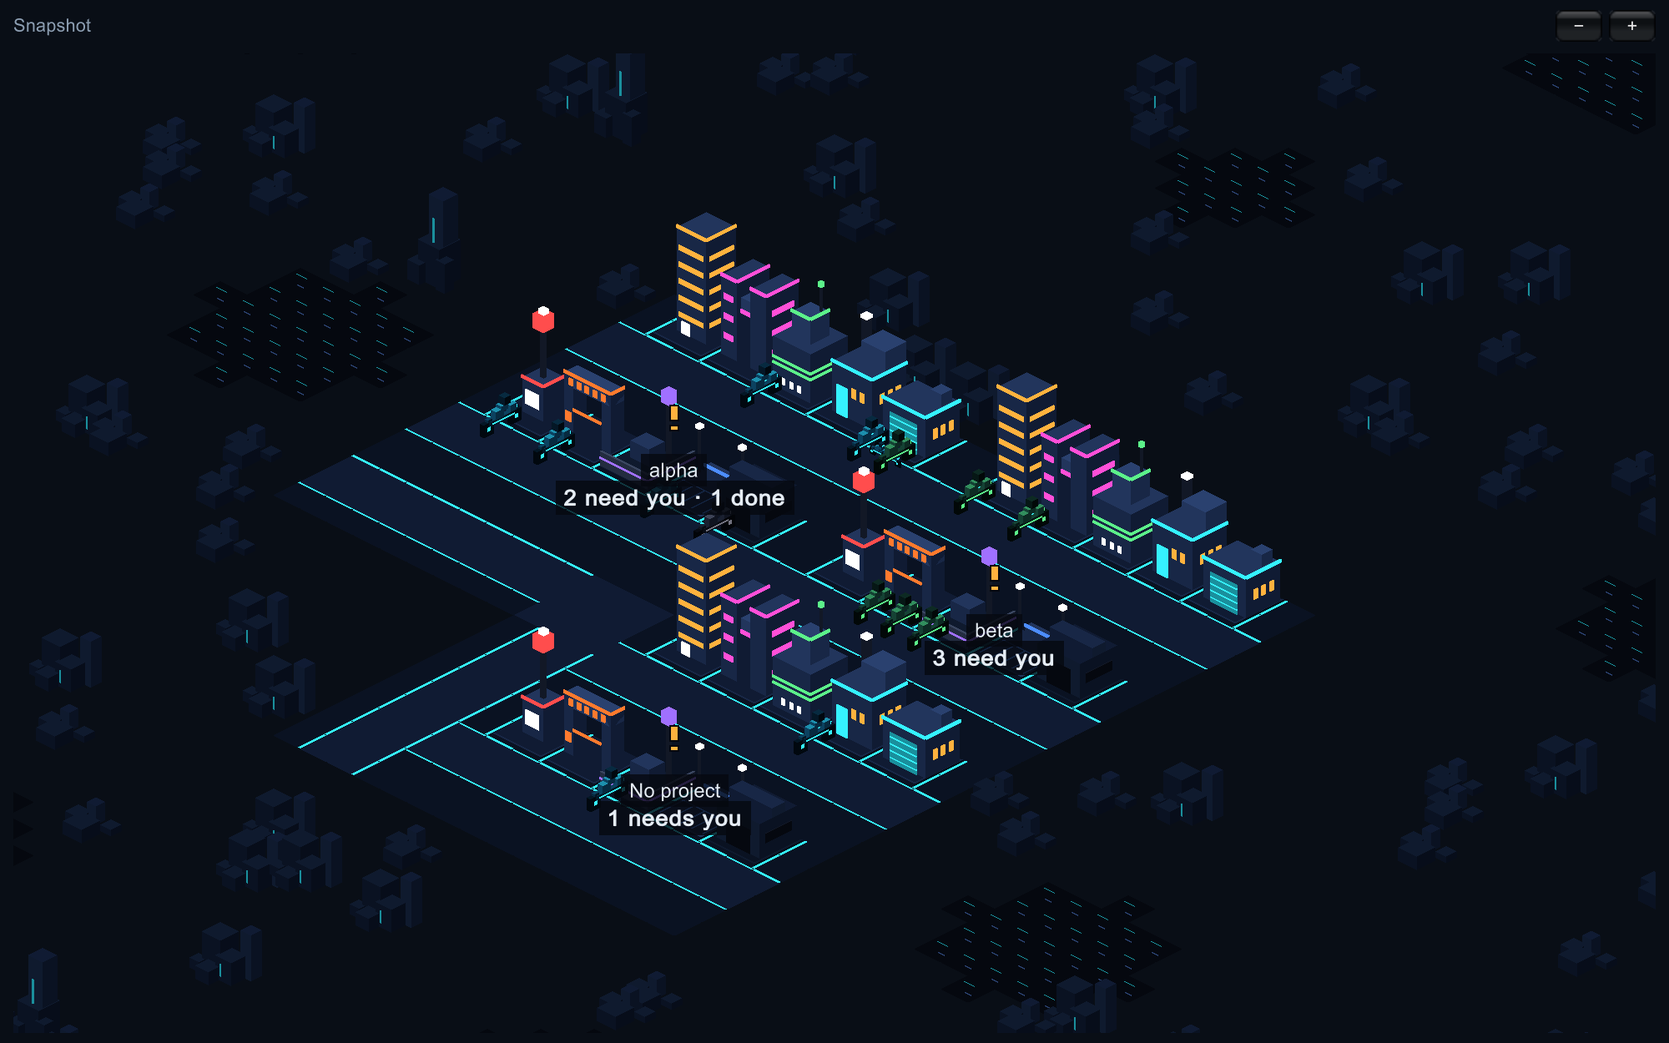
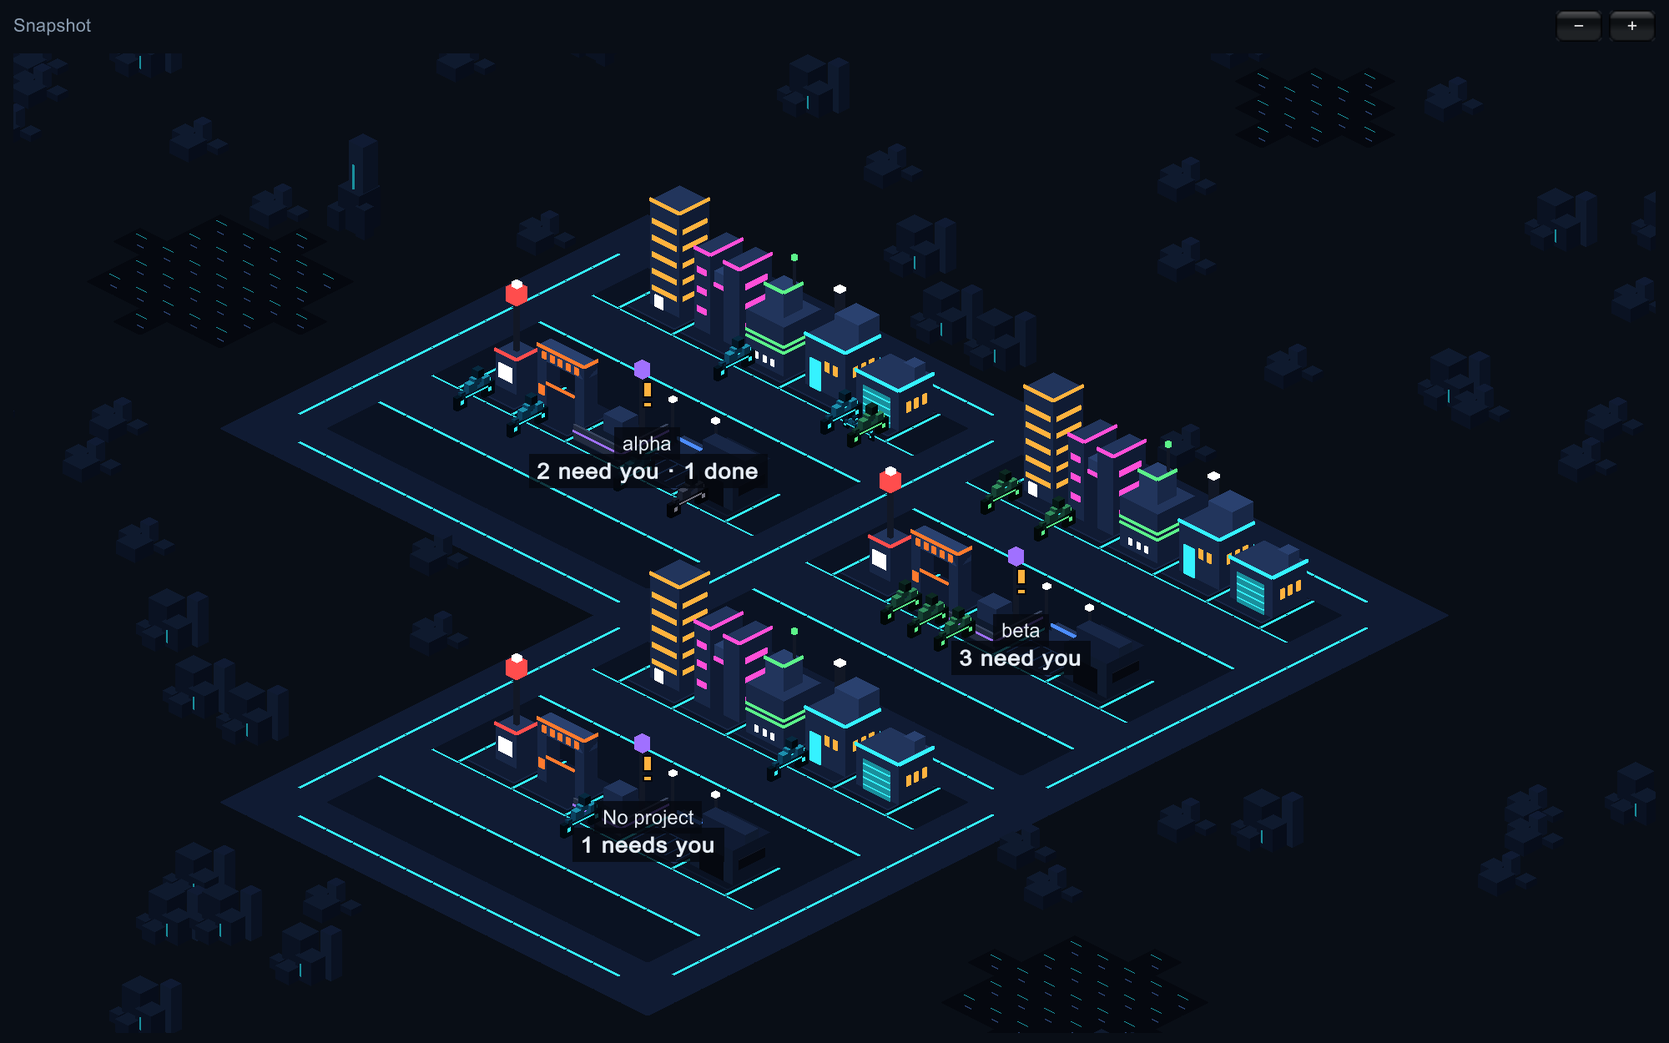
GRID-15: paths between cities, on every side
A path now runs round every plot: plots stand one path apart instead of
edge to edge, so two neighbours have a way between them, every city has
one on all four sides, and the paths of the whole map join at the corners.
A path has one line of light down its middle, where a city's own streets
have a lit kerb on each side.

This replaces the thoroughfares of GRID-13, whose rule (company on two
sides) now holds by construction: Iso.Thoroughfares and the road drawing
in the outlands are removed.

diff --git a/Assets/TheGrid/WorldView.cs b/Assets/TheGrid/WorldView.cs
@@ -261,9 +261,10 @@ namespace TheGrid
         void Paint(WorldCity city)
         {
             var o = Iso.PlotOrigin(city.cell);
-            for (int col = 0; col < Iso.PlotTiles; col++)
-                for (int row = 0; row < Iso.PlotTiles; row++)
-                    ground.SetTile(At(o.x + col, o.y + row), Ground(col, row));
+            // The plot, and the path round it. A neighbour paints the stretch between the two again, the same way.
+            for (int col = -Iso.PathTiles; col < Iso.PlotTiles + Iso.PathTiles; col++)
+                for (int row = -Iso.PathTiles; row < Iso.PlotTiles + Iso.PathTiles; row++)
+                    ground.SetTile(At(o.x + col, o.y + row), Iso.OnPath(city.cell, o.x + col, o.y + row) ? Path(col, row) : Ground(col, row));
             foreach (Building b in Enum.GetValues(typeof(Building)))
                 NewSprite(BuildingNames[(int)b], buildingSprites[(int)b], root).transform.localPosition = Iso.BuildingSpot(city.cell, b);
         }
@@ -272,32 +273,13 @@ namespace TheGrid
         static Vector3Int At(int col, int row) => new Vector3Int(-row, -col, 0);
 
         // The outlands: the land does not stop at the last plot. Every empty cell near a plot gets stones, outcrops, now and then a
-        // spire or a lake, so the view runs on to its edges the way a tycoon map runs on into trees and shoreline. Through it run
-        // the thoroughfares that keep every city in company on two sides. It is scenery: it says nothing about any agent, and it
-        // never moves. It follows only from where the plots are, so it is laid out afresh whenever a plot is added.
+        // spire or a lake, so the view runs on to its edges the way a tycoon map runs on into trees and shoreline. It is scenery:
+        // it says nothing about any agent, and it never moves. It keeps to the inside of its cell, clear of the paths.
         void LayOutlands(List<Vector2Int> cells)
         {
             if (cells.Count == outlandsFor || cells.Count == 0) return;
             outlandsFor = cells.Count;
             var taken = new HashSet<Vector2Int>(cells);
-            foreach (var kv in outlands)
-            {
-                Kill(kv.Value);
-                if (taken.Contains(kv.Key)) continue;   // a new repo was given this cell: its plot is already painted there
-                var o = Iso.PlotOrigin(kv.Key);
-                for (int col = 0; col < Iso.PlotTiles; col++)
-                    for (int row = 0; row < Iso.PlotTiles; row++)
-                        ground.SetTile(At(o.x + col, o.y + row), null);
-            }
-            outlands.Clear();
-
-            var roads = new Dictionary<Vector2Int, List<Vector2Int>>();
-            foreach (var road in Iso.Thoroughfares(cells))
-            {
-                if (!roads.TryGetValue(road.cell, out var through)) roads[road.cell] = through = new List<Vector2Int>();
-                through.Add(road.toCity);
-            }
-
             int x0 = int.MaxValue, x1 = int.MinValue, y0 = int.MaxValue, y1 = int.MinValue;
             foreach (var c in cells)
             {
@@ -307,23 +289,27 @@ namespace TheGrid
                 for (int y = y0 - OutlandRing; y <= y1 + OutlandRing; y++)
                 {
                     var cell = new Vector2Int(x, y);
-                    if (taken.Contains(cell)) continue;
-                    roads.TryGetValue(cell, out var through);
-                    outlands[cell] = Scenery(cell, through);
+                    if (!taken.Contains(cell))
+                    {
+                        if (!outlands.ContainsKey(cell)) outlands[cell] = Scenery(cell);
+                    }
+                    else if (outlands.TryGetValue(cell, out var old))
+                    {
+                        // A new repo was given this cell: its plot has already been painted over the ground, so only the stones go.
+                        Kill(old);
+                        outlands.Remove(cell);
+                    }
                 }
         }
 
-        GameObject Scenery(Vector2Int cell, List<Vector2Int> roadsToward)
+        GameObject Scenery(Vector2Int cell)
         {
             var holder = new GameObject("Outlands " + cell.x + " " + cell.y).transform;
             holder.SetParent(root, false);
             var o = Iso.PlotOrigin(cell);
             var rng = new System.Random(cell.x * 73856093 ^ cell.y * 19349663);   // the same land every time the app opens
 
-            var used = new HashSet<Vector2Int>();   // tiles under a road or a lake: nothing else goes there
-            if (roadsToward != null)
-                foreach (var toCity in roadsToward) Road(o, toCity, used);
-
+            var water = new HashSet<Vector2Int>();
             if (rng.Next(3) == 0)
             {
                 int cx = rng.Next(2, 10), cy = rng.Next(2, 10);
@@ -332,7 +318,8 @@ namespace TheGrid
                     for (int row = 0; row < Iso.PlotTiles; row++)
                     {
                         float dx = (col - cx) / rx, dy = (row - cy) / ry;
-                        if (dx * dx + dy * dy > 1f || !used.Add(new Vector2Int(col, row))) continue;
+                        if (dx * dx + dy * dy > 1f) continue;
+                        water.Add(new Vector2Int(col, row));
                         ground.SetTile(At(o.x + col, o.y + row), waterTile);
                     }
             }
@@ -342,30 +329,26 @@ namespace TheGrid
                 int kind = rng.Next(10);
                 // A spire hides what stands behind it, so it keeps to the middle of its cell, clear of any plot next door.
                 int col = kind < 9 ? rng.Next(0, 11) : rng.Next(3, 8), row = kind < 9 ? rng.Next(0, 11) : rng.Next(3, 8);
-                bool free = true;
+                bool wet = false;
                 for (int c = col; c <= col + 1; c++)
                     for (int r = row; r <= row + 1; r++)
-                        free &= !used.Contains(new Vector2Int(c, r));
-                if (!free) continue;
+                        wet |= water.Contains(new Vector2Int(c, r));
+                if (wet) continue;
                 var at = (Iso.TileCentre(o.x + col, o.y + row) + Iso.TileCentre(o.x + col + 1, o.y + row + 1)) / 2;
                 NewSprite("stone", outlandSprites[kind < 5 ? 0 : kind < 9 ? 1 : 2], holder).transform.localPosition = at;
             }
             return holder.gameObject;
         }
 
-        // A thoroughfare: a road down the side of an empty cell that faces a city, the length of that side. Three tiles across:
-        // a lit kerb on each edge of the roadway and a strip of verge. Where two roads meet, the crossing is open road.
-        void Road(Vector2Int o, Vector2Int toCity, HashSet<Vector2Int> used)
+        // The path round a plot: a roadway two tiles across with one line of light down its middle, which is what tells a path from
+        // a city's own streets with their two lit kerbs. Where paths meet at a corner the crossing is open road.
+        Tile Path(int col, int row)
         {
-            bool alongColumns = toCity.x == 0;   // the city is up-right or down-left of here, so the road runs the way columns run
-            var lanes = alongColumns ? new[] { roadKerbTile, roadTile, kerbTile } : new[] { alleyTile, roadTile, roadAlleyTile };
-            int first = toCity.x + toCity.y < 0 ? 0 : Iso.PlotTiles - lanes.Length;   // against the edge the city is on
-            for (int i = 0; i < Iso.PlotTiles; i++)
-                for (int lane = 0; lane < lanes.Length; lane++)
-                {
-                    var t = alongColumns ? new Vector2Int(i, first + lane) : new Vector2Int(first + lane, i);
-                    ground.SetTile(At(o.x + t.x, o.y + t.y), used.Add(t) ? lanes[lane] : roadTile);
-                }
+            bool alongColumns = row < 0 || row >= Iso.PlotTiles, alongRows = col < 0 || col >= Iso.PlotTiles;
+            if (alongColumns && alongRows) return roadTile;
+            // The line is the strip on the edge the two tiles share: the nearer tile's far edge one way, the farther tile's the other.
+            if (alongColumns) return (row + Iso.PathTiles) % Iso.Pitch == 1 ? roadKerbTile : roadTile;
+            return (col + Iso.PathTiles) % Iso.Pitch == 0 ? roadAlleyTile : roadTile;
         }
 
         // Light follows the buildings, not the tiles: a strip along each kerb of the two streets, which run past the buildings' fronts,

diff --git a/Assets/TheGrid/Tests/IsoTests.cs b/Assets/TheGrid/Tests/IsoTests.cs
@@ -39,10 +39,11 @@ namespace TheGrid.Core.Tests
         {
             var cells = new[] { new Vector2Int(0, 0), new Vector2Int(1, 0), new Vector2Int(0, 1), new Vector2Int(-1, -1) };
             var origins = cells.Select(Iso.PlotOrigin).ToList();
+            Assert.AreEqual(14, Iso.Pitch);   // a plot and the path beside it
             Assert.AreEqual(new Vector2Int(0, 0), origins[0]);
-            Assert.AreEqual(new Vector2Int(12, 0), origins[1]);
-            Assert.AreEqual(new Vector2Int(0, 12), origins[2]);
-            Assert.AreEqual(new Vector2Int(-12, -12), origins[3]);
+            Assert.AreEqual(new Vector2Int(14, 0), origins[1]);
+            Assert.AreEqual(new Vector2Int(0, 14), origins[2]);
+            Assert.AreEqual(new Vector2Int(-14, -14), origins[3]);
         }
 
         [Test]
@@ -57,70 +58,63 @@ namespace TheGrid.Core.Tests
             Assert.AreNotEqual(Iso.RiderSpot(new Vector2Int(0, 0), Building.Garage, 0), Iso.RiderSpot(cell, Building.Garage, 0));
         }
 
-        static readonly Vector2Int LowerLeft = new Vector2Int(0, 1), LowerRight = new Vector2Int(1, 0), UpperLeft = new Vector2Int(-1, 0), UpperRight = new Vector2Int(0, -1);
-
-        [Test]
-        public void ThreeCitiesInAnLShareOneNotch()
+        static IEnumerable<Vector2Int> PlotTiles(Vector2Int cell)
         {
-            // The owner's example: alpha, beta beside it, and a third below beta. The first and the third each touch only beta,
-            // and the empty cell between them is where both get their road.
-            Vector2Int alpha = new Vector2Int(0, 0), beta = new Vector2Int(1, 0), third = new Vector2Int(1, 1), notch = new Vector2Int(0, 1);
-            var roads = Iso.Thoroughfares(new[] { alpha, beta, third });
-            Assert.AreEqual(2, roads.Count);
-            CollectionAssert.Contains(roads, (notch, alpha - notch));   // along alpha's lower-left side
-            CollectionAssert.Contains(roads, (notch, third - notch));   // along the third city's upper-left side: its left
-            Assert.AreEqual(UpperLeft, notch - third);
+            var o = Iso.PlotOrigin(cell);
+            for (int c = 0; c < Iso.PlotTiles; c++) for (int r = 0; r < Iso.PlotTiles; r++) yield return new Vector2Int(o.x + c, o.y + r);
         }
 
         [Test]
-        public void ACityOnItsOwnGetsRoadsOnItsTwoFrontSides()
+        public void APathRunsAlongAllFourSidesOfACityAndRoundItsCorners()
         {
-            var city = new Vector2Int(3, -2);
-            var roads = Iso.Thoroughfares(new[] { city });
-            Assert.AreEqual(2, roads.Count);
-            CollectionAssert.Contains(roads, (city + LowerLeft, -LowerLeft));
-            CollectionAssert.Contains(roads, (city + LowerRight, -LowerRight));
+            var cell = new Vector2Int(2, -1);
+            var o = Iso.PlotOrigin(cell);
+            int far = Iso.PlotTiles + Iso.PathTiles - 1;   // the last path tile beyond the plot
+            foreach (var t in new[] { new Vector2Int(5, -1), new Vector2Int(5, Iso.PlotTiles), new Vector2Int(-1, 5), new Vector2Int(Iso.PlotTiles, 5),      // beside each side
+                                      new Vector2Int(-Iso.PathTiles, -Iso.PathTiles), new Vector2Int(far, far), new Vector2Int(-Iso.PathTiles, far) })                  // corners
+                Assert.IsTrue(Iso.OnPath(cell, o.x + t.x, o.y + t.y), t + " should be path");
+            foreach (var t in new[] { new Vector2Int(0, 0), new Vector2Int(11, 11), new Vector2Int(5, 5), new Vector2Int(-Iso.PathTiles - 1, 5), new Vector2Int(5, far + 1) })
+                Assert.IsFalse(Iso.OnPath(cell, o.x + t.x, o.y + t.y), t + " should not be path");
+            // the path is as wide as PathTiles all the way round: a 16 by 16 square less the 12 by 12 plot
+            int count = 0;
+            for (int c = -5; c < 20; c++) for (int r = -5; r < 20; r++) if (Iso.OnPath(cell, o.x + c, o.y + r)) count++;
+            Assert.AreEqual(16 * 16 - 12 * 12, count);
         }
 
         [Test]
-        public void CitiesWithTwoNeighboursNeedNoRoads()
+        public void NeighbouringCitiesShareThePathBetweenThemAndNoPathRunsThroughAPlot()
         {
-            Assert.AreEqual(0, Iso.Thoroughfares(new[] { new Vector2Int(0, 0), new Vector2Int(1, 0), new Vector2Int(1, 1), new Vector2Int(0, 1) }).Count);
-            Assert.AreEqual(0, Iso.Thoroughfares(new Vector2Int[0]).Count);
-        }
+            Vector2Int a = new Vector2Int(0, 0), right = new Vector2Int(1, 0), below = new Vector2Int(0, 1);
+            for (int i = 0; i < Iso.PlotTiles; i++)
+                for (int lane = 0; lane < Iso.PathTiles; lane++)
+                {
+                    Assert.IsTrue(Iso.OnPath(a, Iso.PlotTiles + lane, i) && Iso.OnPath(right, Iso.PlotTiles + lane, i), "between a city and the one beside it");
+                    Assert.IsTrue(Iso.OnPath(a, i, Iso.PlotTiles + lane) && Iso.OnPath(below, i, Iso.PlotTiles + lane), "between a city and the one below it");
+                }
 
-        [Test]
-        public void HoweverManyCitiesEachHasCompanyOnTwoSidesAndNoRoadRunsThroughACity()
-        {
-            for (int n = 1; n <= 40; n++)
+            var cells = Enumerable.Range(0, 40).Select(Plots.Cell).ToList();
+            var plots = new HashSet<Vector2Int>(cells.SelectMany(PlotTiles));
+            Assert.AreEqual(40 * Iso.PlotTiles * Iso.PlotTiles, plots.Count, "plots share no tile");
+            foreach (var cell in cells)
             {
-                var cities = Enumerable.Range(0, n).Select(Plots.Cell).ToList();
-                var roads = Iso.Thoroughfares(cities);
-                CollectionAssert.AreEqual(roads, Iso.Thoroughfares(cities), "the same cities give the same roads");
-                foreach (var r in roads)
-                {
-                    CollectionAssert.DoesNotContain(cities, r.cell, n + " cities: a road runs through a city");
-                    CollectionAssert.Contains(cities, r.cell + r.toCity, n + " cities: a road serves no city");
-                }
-                foreach (var city in cities)
-                {
-                    int company = Iso.Sides.Count(side => cities.Contains(city + side) || roads.Contains((city + side, -side)));
-                    Assert.GreaterOrEqual(company, 2, n + " cities: " + city + " is stranded");
-                    Assert.AreEqual(Math.Max(0, 2 - Iso.Sides.Count(side => cities.Contains(city + side))), roads.Count(r => r.cell + r.toCity == city), n + " cities: " + city + " has roads it does not need");
-                }
+                var o = Iso.PlotOrigin(cell);
+                for (int c = -Iso.PathTiles; c < Iso.PlotTiles + Iso.PathTiles; c++)
+                    for (int r = -Iso.PathTiles; r < Iso.PlotTiles + Iso.PathTiles; r++)
+                        Assert.AreEqual(!plots.Contains(new Vector2Int(o.x + c, o.y + r)), Iso.OnPath(cell, o.x + c, o.y + r), cell + ": tile " + c + ", " + r);
             }
         }
 
         [Test]
         public void BoundsCoverThePlots()
         {
+            // a plot and the path round it: 16 tiles each way
             var one = Iso.Bounds(new[] { new Vector2Int(0, 0) });
-            Assert.AreEqual(768f, one.width, .01f);
-            Assert.AreEqual(384f, one.height, .01f);
+            Assert.AreEqual(1024f, one.width, .01f);
+            Assert.AreEqual(512f, one.height, .01f);
             Assert.AreEqual(0f, one.center.x, .01f);                      // plot 0 is centred under its north corner
             var two = Iso.Bounds(new[] { new Vector2Int(0, 0), new Vector2Int(1, 0) });
-            Assert.AreEqual(768f + 384f, two.width, .01f);                // the neighbour sits half a plot across and half a plot down
-            Assert.AreEqual(384f + 192f, two.height, .01f);
+            Assert.AreEqual(1024f + 448f, two.width, .01f);               // the neighbour sits one pitch along: half its width across, a quarter down
+            Assert.AreEqual(512f + 224f, two.height, .01f);
             Assert.AreEqual(0f, Iso.Bounds(new Vector2Int[0]).width);
         }
 

diff --git a/Assets/TheGrid/Core/Iso.cs b/Assets/TheGrid/Core/Iso.cs
@@ -9,6 +9,9 @@ namespace TheGrid.Core
     {
         public const int TileW = 64, TileH = 32, PlotTiles = 12, RidersPerRow = 2;
 
+        // A path runs round every plot, so between two neighbouring plots there is one, and the paths of the whole map join up.
+        public const int PathTiles = 2, Pitch = PlotTiles + PathTiles;
+
         // Screen pixels per art pixel. Each level doubles the last, so pixels stay whole.
         public static readonly float[] Zoom = { .25f, .5f, 1f, 2f, 4f };
 
@@ -29,7 +32,16 @@ namespace TheGrid.Core
             new Vector2Int(9, 6),   // Depot
         };
 
-        public static Vector2Int PlotOrigin(Vector2Int cell) => new Vector2Int(cell.x * PlotTiles, cell.y * PlotTiles);
+        public static Vector2Int PlotOrigin(Vector2Int cell) => new Vector2Int(cell.x * Pitch, cell.y * Pitch);
+
+        // True for a tile of the path round the plot at this cell: the strip beyond each of its four sides, corners included.
+        public static bool OnPath(Vector2Int cell, int col, int row)
+        {
+            var o = PlotOrigin(cell);
+            int c = col - o.x, r = row - o.y;
+            bool inPlot = c >= 0 && r >= 0 && c < PlotTiles && r < PlotTiles;
+            return !inPlot && c >= -PathTiles && r >= -PathTiles && c < PlotTiles + PathTiles && r < PlotTiles + PathTiles;
+        }
 
         public static Vector2 TileCentre(int col, int row) => Point(col, row);
 
@@ -54,43 +66,7 @@ namespace TheGrid.Core
             return Point(o.x + slot % RidersPerRow + t.y / 6 * .25f, o.y + 1.75f + slot / RidersPerRow * .5f);
         }
 
-        // The four sides of a plot, each as the step to the cell beyond it. On screen: lower left, lower right, upper left, upper right.
-        public static readonly Vector2Int[] Sides = { new Vector2Int(0, 1), new Vector2Int(1, 0), new Vector2Int(-1, 0), new Vector2Int(0, -1) };
-
-        // A city always has company on two sides: another city, or a thoroughfare. These are the roads that takes, each as the
-        // empty cell it runs through and the step from that cell to the city whose side it runs along.
-        // A road goes first where the empty cell already lies between cities, so one stretch of land serves both; after that
-        // on a front side, where no tower hides it. It follows only from where the cities are.
-        public static List<(Vector2Int cell, Vector2Int toCity)> Thoroughfares(IEnumerable<Vector2Int> cities)
-        {
-            var all = new HashSet<Vector2Int>(cities);
-            var roads = new List<(Vector2Int, Vector2Int)>();
-            foreach (var city in all)
-            {
-                var open = new List<Vector2Int>();
-                foreach (var side in Sides)
-                    if (!all.Contains(city + side)) open.Add(side);
-                for (int need = 2 - (Sides.Length - open.Count); need > 0; need--)
-                {
-                    int best = 0;
-                    for (int i = 1; i < open.Count; i++)
-                        if (CitiesAround(all, city + open[i]) > CitiesAround(all, city + open[best])) best = i;
-                    roads.Add((city + open[best], -open[best]));
-                    open.RemoveAt(best);
-                }
-            }
-            return roads;
-        }
-
-        static int CitiesAround(HashSet<Vector2Int> all, Vector2Int cell)
-        {
-            int n = 0;
-            foreach (var side in Sides)
-                if (all.Contains(cell + side)) n++;
-            return n;
-        }
-
-        // The pixel rectangle that covers these plots' ground.
+        // The pixel rectangle that covers these plots' ground and the paths round them.
         public static Rect Bounds(IEnumerable<Vector2Int> cells)
         {
             bool any = false;
@@ -98,9 +74,9 @@ namespace TheGrid.Core
             foreach (var cell in cells)
             {
                 var o = PlotOrigin(cell);
-                int last = PlotTiles - 1;
-                float l = (o.x - o.y - last) * (TileW / 2) - TileW / 2, r = (o.x - o.y + last) * (TileW / 2) + TileW / 2;
-                float top = -(o.x + o.y) * (TileH / 2) + TileH / 2, bottom = -(o.x + o.y + 2 * last) * (TileH / 2) - TileH / 2;
+                int first = -PathTiles, last = PlotTiles + PathTiles - 1;
+                float l = (o.x - o.y + first - last) * (TileW / 2) - TileW / 2, r = (o.x - o.y + last - first) * (TileW / 2) + TileW / 2;
+                float top = -(o.x + o.y + 2 * first) * (TileH / 2) + TileH / 2, bottom = -(o.x + o.y + 2 * last) * (TileH / 2) - TileH / 2;
                 if (!any) { xMin = l; xMax = r; yMin = bottom; yMax = top; any = true; continue; }
                 xMin = Mathf.Min(xMin, l); xMax = Mathf.Max(xMax, r); yMin = Mathf.Min(yMin, bottom); yMax = Mathf.Max(yMax, top);
             }

diff --git a/tools/art/make_sprites.py b/tools/art/make_sprites.py
@@ -437,7 +437,7 @@ def main():
     tile("tile-alley", N1, alley=CYAN)
     tile("tile-road", N3)
     tile("tile-road-kerb", N3, kerb=CYAN)
-    tile("tile-road-alley", N3, alley=CYAN)     # for a thoroughfare that runs the other way
+    tile("tile-road-alley", N3, alley=CYAN)     # for the path round a plot, where it runs the other way
     water()
 
     TALL = 1.5

diff --git a/README.md b/README.md
@@ -72,7 +72,7 @@ The shape of the data the window draws is described in [docs/roster-snapshot.md]
 | Lot | done with its turn |
 | Depot | offline |
 
-Past the last plot the land carries on to the edge of the window: stones, outcrops, a spire or a lake here and there. No city stands stranded in it: each has another city or a thoroughfare on at least two sides, and where the map has a notch between two cities the road runs through the notch. All of that is scenery, worked out from where the cities are; it says nothing about any agent.
+Past the last plot the land carries on to the edge of the window: stones, outcrops, a spire or a lake here and there. A path runs round every city, so between any two neighbours there is one, and the paths of the whole map join up; a path has one line of light down its middle, where a city's own streets have a lit kerb on each side. Paths and outlands are scenery, worked out from where the cities are; they say nothing about any agent.
 
 The Booth, the Gate and the Yard are where you are needed. The tall work buildings stand along the back street of a plot and the low ones along the front, so no tower hides a rider.
 
